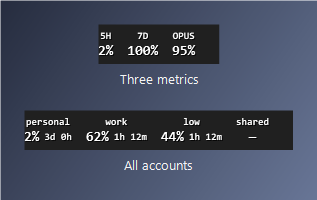
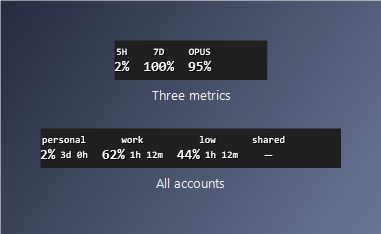
docs: give the taskbar band screenshot room to breathe
The figures sat against the edge of the plate that stands in for the
taskbar, which never happens on a real one — there is a corner or a tray
icon beside them. The plate now has 28 px each side and the composite a
wider margin around both.

Claude-Session: https://claude.ai/code/session_01HLoYzyQw8aTh73BfhmNF7Q

Changed region(s): [[0.0568, 0.54, 0.9369, 0.87], [0.2839, 0.12, 0.7098, 0.45]]

diff --git a/src/ClaudeUsageWidget.App/LayoutPreview.cs b/src/ClaudeUsageWidget.App/LayoutPreview.cs
@@ -569,11 +569,14 @@ internal static class LayoutPreview
         content.SetMetrics(entries, ThemeKind.Dark);
         content.Measure(new Size(double.PositiveInfinity, TaskbarHeight));
 
+        // The plate stands in for the taskbar, and on a real one the figures
+        // never sit against an edge — there is a corner or a tray icon beside
+        // them. 28 px each side is roughly what that looks like.
         var plate = new Border
         {
             Background = new SolidColorBrush(Color.FromRgb(0x20, 0x20, 0x20)),
             Child = content,
-            Width = content.DesiredSize.Width + 24,
+            Width = content.DesiredSize.Width + 56,
             Height = TaskbarHeight,
         };
 
